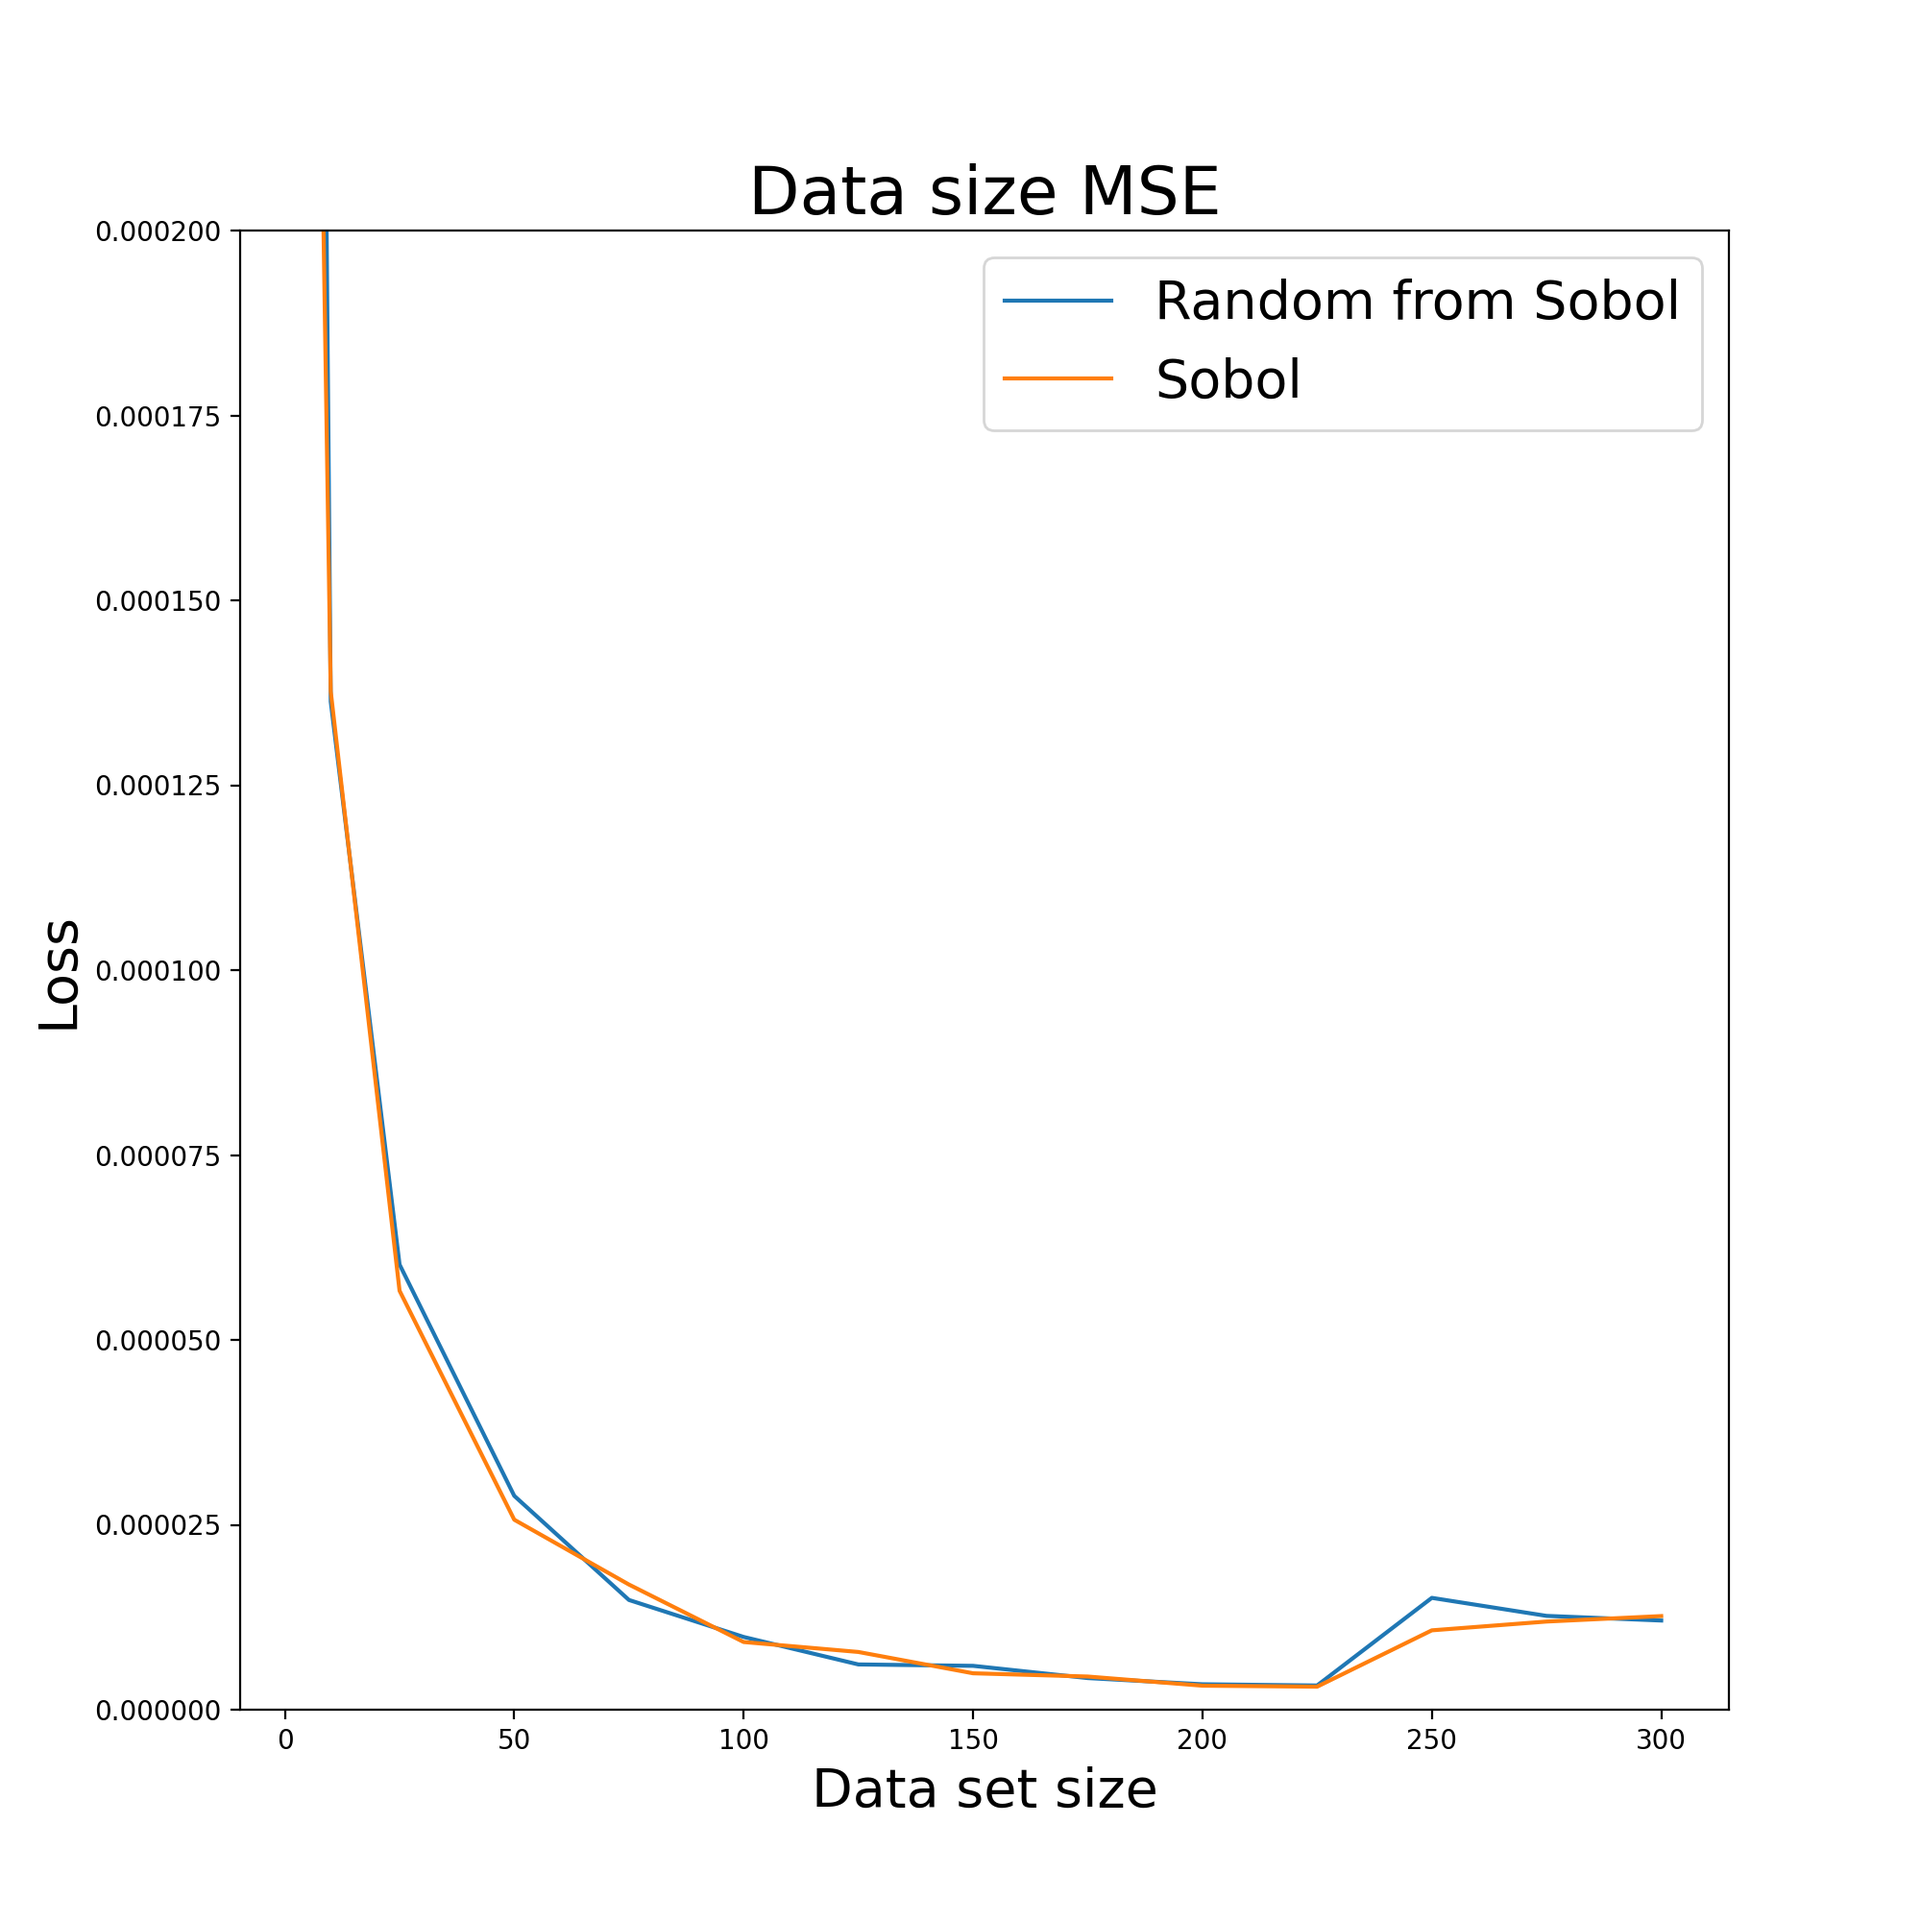
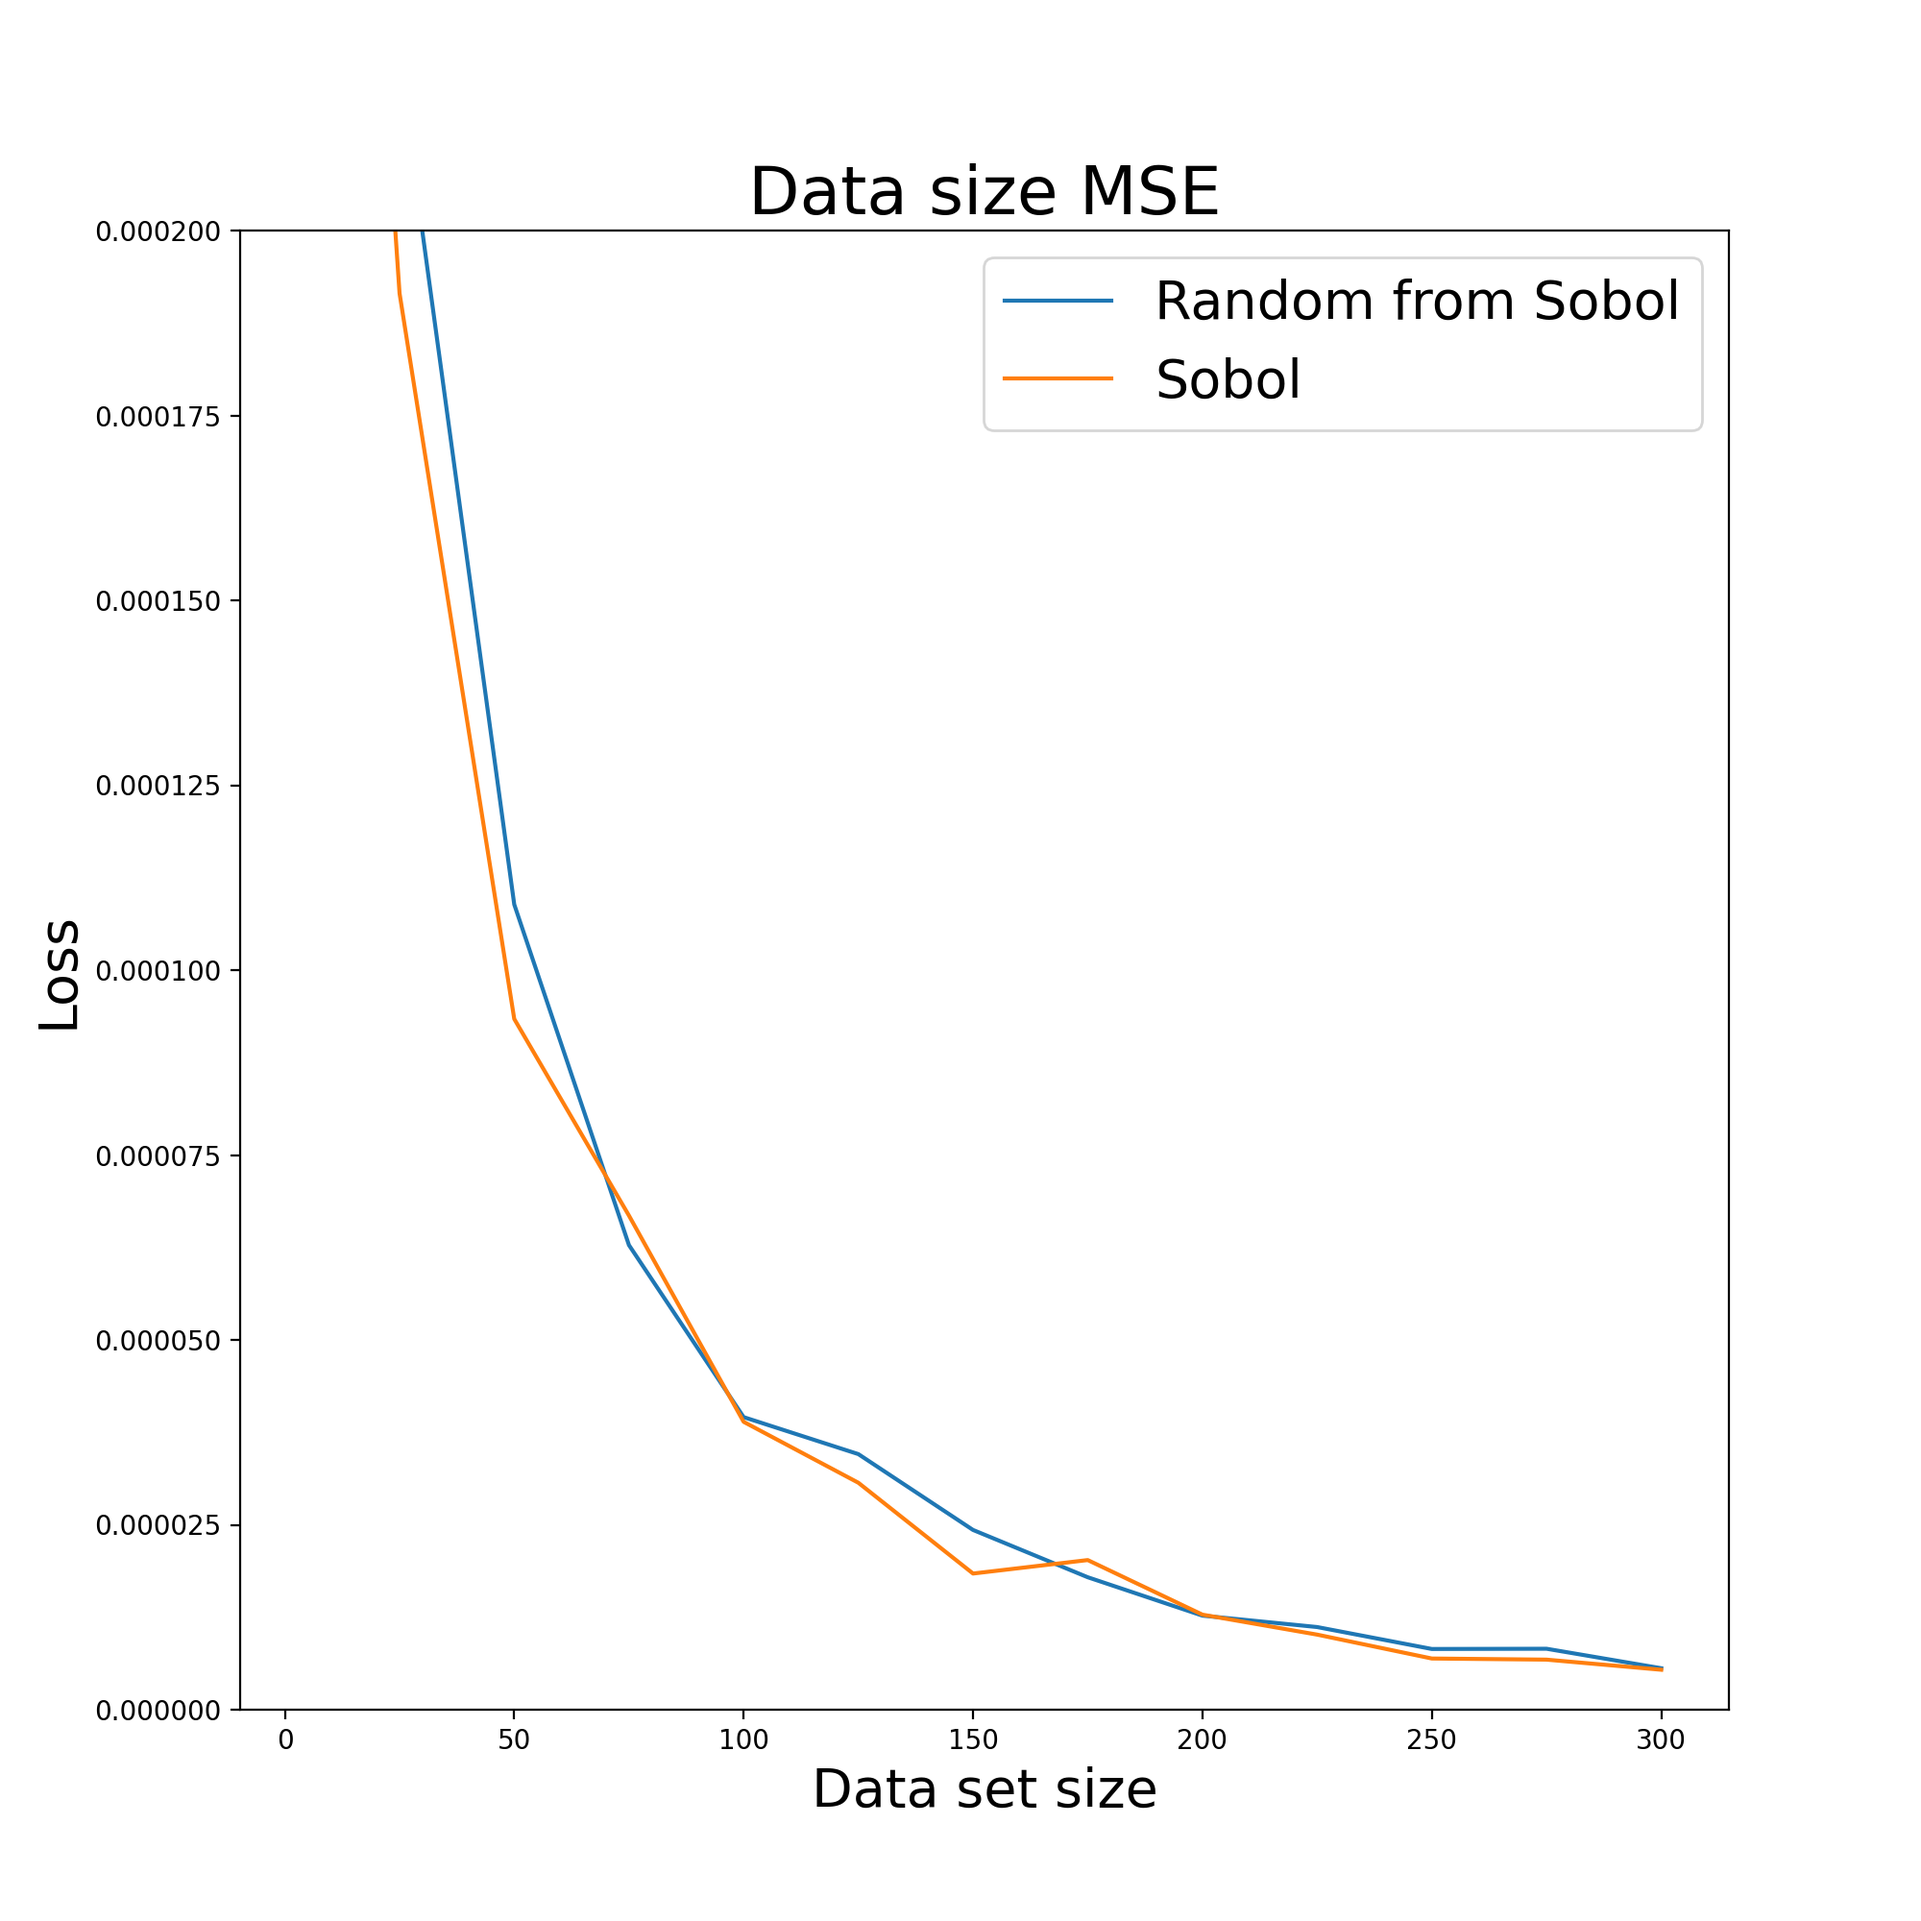
lols

diff --git a/Thesis/Heston/LossHistory.py b/Thesis/Heston/LossHistory.py
@@ -68,34 +68,34 @@ if __name__ == "__main__":
     sobol_set_300 = sobol_self(300000, model_input_3, imp_vol_3)
 
     model_list = [
-        [data_set_5, "data_size/data_set_5", "data_set_5", 5, 100, "normal", "False", "standardize", False],
-        [data_set_10, "data_size/data_set_10", "data_set_10", 5, 100, "normal", "False", "standardize", False],
-        [data_set_25, "data_size/data_set_25", "data_set_25", 5, 100, "normal", "False", "standardize", False],
-        [data_set_50, "data_size/data_set_50", "data_set_50", 5, 100, "normal", "False", "standardize", False],
-        [data_set_75, "data_size/data_set_75", "data_set_75", 5, 100, "normal", "False", "standardize", False],
-        [data_set_100, "data_size/data_set_100", "data_set_100", 5, 100, "normal", "False", "standardize", False],
-        [data_set_125, "data_size/data_set_125", "data_set_125", 5, 100, "normal", "False", "standardize", False],
-        [data_set_150, "data_size/data_set_150", "data_set_150", 5, 100, "normal", "False", "standardize", False],
-        [data_set_175, "data_size/data_set_175", "data_set_175", 5, 100, "normal", "False", "standardize", False],
-        [data_set_200, "data_size/data_set_200", "data_set_200", 5, 100, "normal", "False", "standardize", False],
-        [data_set_225, "data_size/data_set_225", "data_set_225", 5, 100, "normal", "False", "standardize", False],
-        [data_set_250, "data_size/data_set_250", "data_set_250", 5, 100, "normal", "False", "standardize", False],
-        [data_set_275, "data_size/data_set_275", "data_set_275", 5, 100, "normal", "False", "standardize", False],
-        [data_set_300, "data_size/data_set_300", "data_set_300", 5, 100, "normal", "False", "standardize", False],
-        [sobol_set_5, "data_size/sobol_set_5", "sobol_set_5", 5, 100, "normal", "False", "standardize", False],
-        [sobol_set_10, "data_size/sobol_set_10", "sobol_set_10", 5, 100, "normal", "False", "standardize", False],
-        [sobol_set_25, "data_size/sobol_set_25", "sobol_set_25", 5, 100, "normal", "False", "standardize", False],
-        [sobol_set_50, "data_size/sobol_set_50", "sobol_set_50", 5, 100, "normal", "False", "standardize", False],
-        [sobol_set_75, "data_size/sobol_set_75", "sobol_set_75", 5, 100, "normal", "False", "standardize", False],
-        [sobol_set_100, "data_size/sobol_set_100", "sobol_set_100", 5, 100, "normal", "False", "standardize", False],
-        [sobol_set_125, "data_size/sobol_set_125", "sobol_set_125", 5, 100, "normal", "False", "standardize", False],
-        [sobol_set_150, "data_size/sobol_set_150", "sobol_set_150", 5, 100, "normal", "False", "standardize", False],
-        [sobol_set_175, "data_size/sobol_set_175", "sobol_set_175", 5, 100, "normal", "False", "standardize", False],
-        [sobol_set_200, "data_size/sobol_set_200", "sobol_set_200", 5, 100, "normal", "False", "standardize", False],
-        [sobol_set_225, "data_size/sobol_set_225", "sobol_set_225", 5, 100, "normal", "False", "standardize", False],
-        [sobol_set_250, "data_size/sobol_set_250", "sobol_set_250", 5, 100, "normal", "False", "standardize", False],
-        [sobol_set_275, "data_size/sobol_set_275", "sobol_set_275", 5, 100, "normal", "False", "standardize", False],
-        [sobol_set_300, "data_size/sobol_set_300", "sobol_set_300", 5, 100, "normal", "False", "standardize", False]
+        [data_set_5, "data_size2/data_set_5", "data_set_5", 3, 500, "normal", "False", "standardize", False],
+        [data_set_10, "data_size2/data_set_10", "data_set_10", 3, 500, "normal", "False", "standardize", False],
+        [data_set_25, "data_size2/data_set_25", "data_set_25", 3, 500, "normal", "False", "standardize", False],
+        [data_set_50, "data_size2/data_set_50", "data_set_50", 3, 500, "normal", "False", "standardize", False],
+        [data_set_75, "data_size2/data_set_75", "data_set_75", 3, 500, "normal", "False", "standardize", False],
+        [data_set_100, "data_size2/data_set_100", "data_set_100", 3, 500, "normal", "False", "standardize", False],
+        [data_set_125, "data_size2/data_set_125", "data_set_125", 3, 500, "normal", "False", "standardize", False],
+        [data_set_150, "data_size2/data_set_150", "data_set_150", 3, 500, "normal", "False", "standardize", False],
+        [data_set_175, "data_size2/data_set_175", "data_set_175", 3, 500, "normal", "False", "standardize", False],
+        [data_set_200, "data_size2/data_set_200", "data_set_200", 3, 500, "normal", "False", "standardize", False],
+        [data_set_225, "data_size2/data_set_225", "data_set_225", 3, 500, "normal", "False", "standardize", False],
+        [data_set_250, "data_size2/data_set_250", "data_set_250", 3, 500, "normal", "False", "standardize", False],
+        [data_set_275, "data_size2/data_set_275", "data_set_275", 3, 500, "normal", "False", "standardize", False],
+        [data_set_300, "data_size2/data_set_300", "data_set_300", 3, 500, "normal", "False", "standardize", False],
+        [sobol_set_5, "data_size2/sobol_set_5", "sobol_set_5", 3, 500, "normal", "False", "standardize", False],
+        [sobol_set_10, "data_size2/sobol_set_10", "sobol_set_10", 3, 500, "normal", "False", "standardize", False],
+        [sobol_set_25, "data_size2/sobol_set_25", "sobol_set_25", 3, 500, "normal", "False", "standardize", False],
+        [sobol_set_50, "data_size2/sobol_set_50", "sobol_set_50", 3, 500, "normal", "False", "standardize", False],
+        [sobol_set_75, "data_size2/sobol_set_75", "sobol_set_75", 3, 500, "normal", "False", "standardize", False],
+        [sobol_set_100, "data_size2/sobol_set_100", "sobol_set_100", 3, 500, "normal", "False", "standardize", False],
+        [sobol_set_125, "data_size2/sobol_set_125", "sobol_set_125", 3, 500, "normal", "False", "standardize", False],
+        [sobol_set_150, "data_size2/sobol_set_150", "sobol_set_150", 3, 500, "normal", "False", "standardize", False],
+        [sobol_set_175, "data_size2/sobol_set_175", "sobol_set_175", 3, 500, "normal", "False", "standardize", False],
+        [sobol_set_200, "data_size2/sobol_set_200", "sobol_set_200", 3, 500, "normal", "False", "standardize", False],
+        [sobol_set_225, "data_size2/sobol_set_225", "sobol_set_225", 3, 500, "normal", "False", "standardize", False],
+        [sobol_set_250, "data_size2/sobol_set_250", "sobol_set_250", 3, 500, "normal", "False", "standardize", False],
+        [sobol_set_275, "data_size2/sobol_set_275", "sobol_set_275", 3, 500, "normal", "False", "standardize", False],
+        [sobol_set_300, "data_size2/sobol_set_300", "sobol_set_300", 3, 500, "normal", "False", "standardize", False]
     ]
 
     if cpu_count() == 4:
@@ -103,9 +103,55 @@ if __name__ == "__main__":
     else:
         cpu_cores = int(min(cpu_count()/4, 16))
 
+    """
     pool = Pool(cpu_cores)
     res = pool.starmap(mg.NN_mc_model_1, model_list, chunksize=1)
     pool.close()
+
+    random_input = np.loadtxt("Data/random_input_279936.csv", delimiter=",")
+    random_imp = np.loadtxt("Data/random_imp_279936.csv", delimiter=",")
+    test_index = np.random.choice(np.arange(len(random_imp)),size=30000, replace=False)
+
+    # 5, 100 models
+    models = glob.glob("Models5/data_size/*/*.h5")
+
+    models_mse = mt.model_test_set(models, random_input[test_index, :], random_imp[test_index, :])
+
+    data_set_list = []
+    sobol_set_list = []
+
+    for some_list in models_mse:
+        if (some_list[0].find("data") != -1):
+            data_set_list.append((some_list[0][:8], 
+            int(some_list[0][9:some_list[0].rfind("_")-2]),
+            some_list[1]))
+        else:
+            sobol_set_list.append((some_list[0][:9], 
+            int(some_list[0][10:some_list[0].rfind("_")-2]),
+            some_list[1]))
+
+    data_set_list.sort(key = lambda x: x[1])
+    data_set_x = [sublist[2] for sublist in data_set_list]
+    data_set_y = [sublist[1] for sublist in data_set_list]
+    sobol_set_list.sort(key = lambda x: x[1])
+    sobol_set_x = [sublist[2] for sublist in sobol_set_list]
+    sobol_set_y = [sublist[1] for sublist in sobol_set_list]
+
+    fig = plt.figure(figsize=(10, 10), dpi = 200)
+    ax = fig.add_subplot(111)
+    ax.plot(data_set_y, data_set_x, label = "Random from Sobol")
+    ax.plot(sobol_set_y, sobol_set_x, label = "Sobol")
+    ax.set_xlabel("Data set size", fontsize=20)
+    ax.set_ylabel("Loss", fontsize=20)
+    ax.tick_params(axis = "both", labelsize = 10)
+    ax.set_title("Data size MSE", fontsize=25)
+    ax.legend(loc="upper right", prop={'size': 20})
+    ax.set_ylim(0,2e-4)
+    plt.savefig("Data_size_mse.png")
+    plt.close()
+
+    """
+
     """
 
     sobol_300_loss, sobol_300_model = mg.NN_mc_model_1(sobol_set_300, "loss_history", "sobol_set_300", 5, 500, "normal", "False", "standardize", False, None, True)
